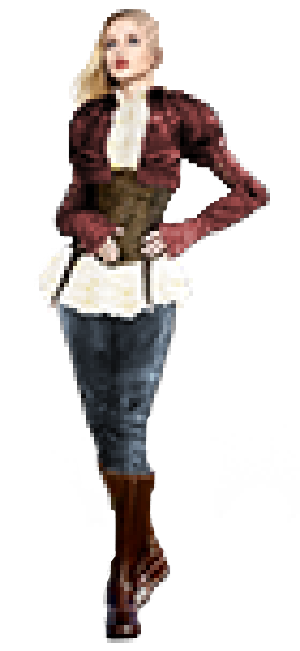
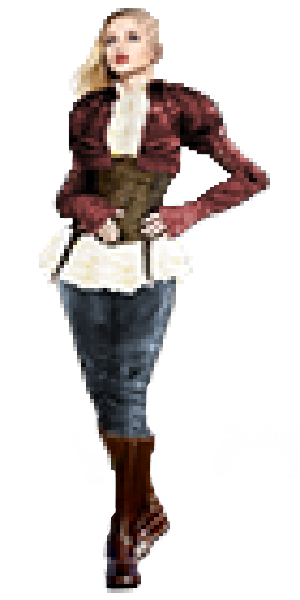
Changes - Fixed level bug - Made characters appear bigger on dialogue - Refined and re-uploaded character .png's

Changed region(s): [[0.48, 0.36, 0.54, 0.39], [0.39, 0.09, 0.42, 0.12], [0.21, 0.42, 0.24, 0.45]]

diff --git a/src/main/java/view/StyleSheet.css b/src/main/java/view/StyleSheet.css
@@ -90,7 +90,9 @@
 #text-stage {
     -fx-font-size: 20 px;
     -fx-font-family: "Segoe UI", Helvetica, Arial, sans-serif;
-    -fx-fill: #ffffff;}
+    -fx-fill: #ffffff;
+}
+
 
 #text-field-red {
     -fx-background-color: white , white, #FFAB91;

diff --git a/src/main/java/controller/MainGameController.java b/src/main/java/controller/MainGameController.java
@@ -30,7 +30,7 @@ import java.util.Random;
 public class MainGameController implements MainController{
     private Game game;
     private boolean isPatternVisible = true;
-    private static int level = 28;
+    private static int level = 1;
     private static int life = 3;
     private static int stage;
     private static int patternLength; //initial pattern length; will increase by level
